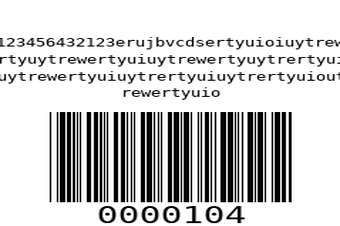
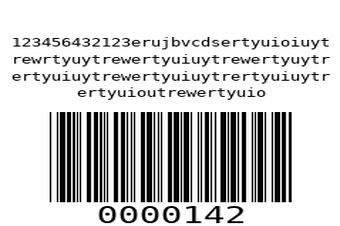
Requirements

Changed region(s): [[0.0, 0.1549, 1.0, 0.4646], [0.5882, 0.4956, 0.7647, 0.9912]]

diff --git a/main/utils.py b/main/utils.py
@@ -30,8 +30,8 @@ SYSTEM_CODE = {
 }
 
 MM_PER_PX = .2645833333
-SYMBOL_WIDTH = 4.939
-MAX_WIDTH = 35
+SYMBOL_WIDTH = 2.5
+MAX_WIDTH = 32
 WIDTH=90
 HEIGHT=60
 class CustomWriter(ImageWriter):
@@ -87,6 +87,7 @@ class CustomWriter(ImageWriter):
         ypos -= len(lines) * 1
 
         for line in lines:
+            
             width, height = font.getsize(line)
             pos = (
                 mm2px(xpos, self.dpi) - width // 2,
@@ -123,10 +124,10 @@ def generate_barcode(id, title):
     file.close()
 
     printer_name = win32print.GetDefaultPrinter()
-    GSPRINT_PATH = os.path.join(os.getcwd(), r'Ghostgum\gsview\gsprint.exe') 
+    GSPRINT_PATH = os.path.join(os.getcwd(), r'Ghostgum\gsview\gsprint.exe')
     GHOSTSCRIPT_PATH = os.path.join(os.getcwd(), r'gs\gs10.01.2\bin\gswin64.exe') 
 
-    win32api.ShellExecute(0, 'open', GSPRINT_PATH, '-ghostscript "'+GHOSTSCRIPT_PATH+'" -printer "'+printer_name+f'" "{pdf_path}"', '.', 0)
+    # win32api.ShellExecute(0, 'open', GSPRINT_PATH, '-ghostscript "'+GHOSTSCRIPT_PATH+'" -printer "'+printer_name+f'" "{pdf_path}"', '.', 0)
 
 
     # hDC = win32ui.CreateDC()

diff --git a/main/migrations/0026_alter_nomenclature_title.py b/main/migrations/0026_alter_nomenclature_title.py
@@ -1,0 +1,18 @@
+# Generated by Django 4.2.2 on 2023-07-25 11:37
+
+from django.db import migrations, models
+
+
+class Migration(migrations.Migration):
+
+    dependencies = [
+        ('main', '0025_remove_storage_size_left'),
+    ]
+
+    operations = [
+        migrations.AlterField(
+            model_name='nomenclature',
+            name='title',
+            field=models.CharField(max_length=100, unique=True),
+        ),
+    ]

diff --git a/main/models.py b/main/models.py
@@ -10,7 +10,7 @@ TEXT_ID_RANK = 7
 
 class Nomenclature(models.Model):
     article = models.CharField(max_length=250, primary_key=True)
-    title = models.CharField(max_length=250, unique=True)
+    title = models.CharField(max_length=100, unique=True)
     units = models.CharField(max_length=60)
     maximum = models.FloatField(null=True, blank=True)
     minimum = models.FloatField(null=True, blank=True)
